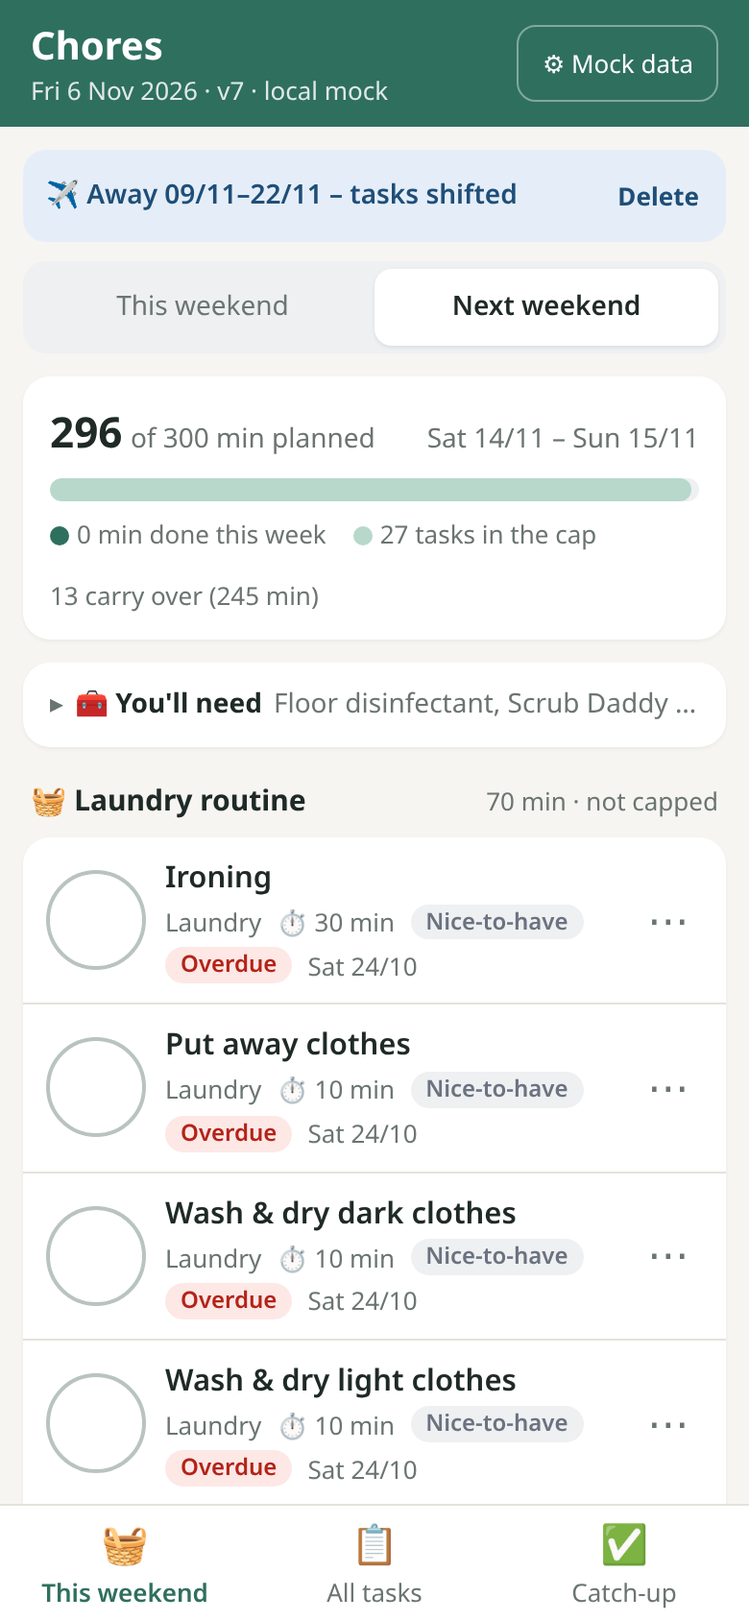
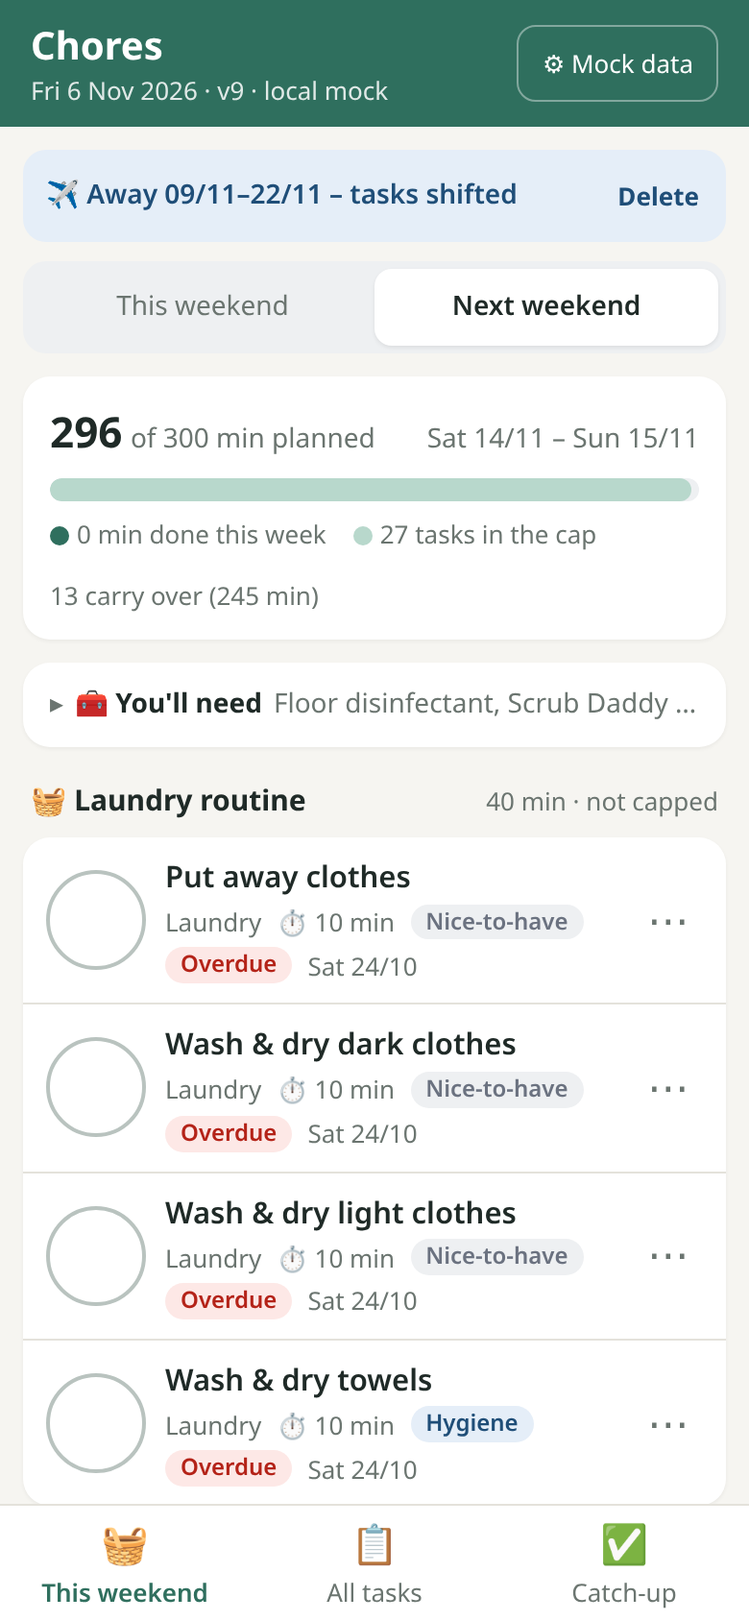
v9: earlier-date tick replaces later dates, no duplicate ticks, effective Last done in edit form, error toasts, no stale reloads

diff --git a/src/app.js b/src/app.js
@@ -1,6 +1,6 @@
 import { computeAll, computeTask, thisWeekend, weekEndFor, fmtDate, addDays, toDay, FREQUENCIES, SEASONS, PRIORITIES, WEEKDAYS,
-  nextWeekendSat, saturdayOnOrAfter, uniqueSupplies, currentAway } from './schedule.js?v=8';
-import { makeBackend } from './data.js?v=8';
+  nextWeekendSat, saturdayOnOrAfter, uniqueSupplies, currentAway, effectiveLast, fromDay, planDone } from './schedule.js?v=9';
+import { makeBackend } from './data.js?v=9';
 
 const $ = (s, el = document) => el.querySelector(s);
 const esc = (s) => String(s ?? '').replace(/[&<>"']/g, (c) => ({ '&': '&amp;', '<': '&lt;', '>': '&gt;', '"': '&quot;', "'": '&#39;' }[c]));
@@ -12,41 +12,61 @@ const CU_START = '2026-10-23', CU_END = '2026-10-27';
 const be = makeBackend();
 const state = { openRooms: new Set(), group: localStorage.getItem('chores.group') || 'room', filter: localStorage.getItem('chores.filter') || 'all', tab: params.get('tab') || 'weekend', next: params.get('week') === 'next', q: '', db: null, lastUndo: null };
 
-async function refresh() { state.db = await be.load(); render(); }
+// only the most recent load is shown, so a slow older response can't overwrite newer data
+let loadSeq = 0;
+async function refresh() { const n = ++loadSeq; const db = await be.load(); if (n !== loadSeq) return; state.db = db; render(); }
+const fail = (err) => { console.error(err); toast(`Couldn't save – ${err?.message || err}`); refresh().catch(() => {}); };
+const safe = (fn) => async (...a) => { try { return await fn(...a); } catch (err) { fail(err); } };
 const cap = () => state.db.settings?.cap_min || window.CHORES_CONFIG?.cap || 300;
 const away = () => state.db.away || [];
 const dm = (iso) => (iso ? `${iso.slice(8, 10)}/${iso.slice(5, 7)}` : '–');
 
 // ---------- actions
+const busy = new Set();   // tasks with a save in flight (repeated taps)
 async function markDone(taskId, doneOn, label) {
-  const prevSnooze = state.db.tasks.find((t) => t.id === taskId)?.snooze_until || null;
-  const c = await be.addCompletion(taskId, doneOn, 'app');
-  if (prevSnooze) await be.updateTask(taskId, { snooze_until: null }).catch(() => {});   // done supersedes 'Not this weekend'
-  await refresh();
-  toast(`${label} – done ${fmtDate(doneOn)}`, async () => {
-    await be.removeCompletion(c.id);
-    if (prevSnooze) await be.updateTask(taskId, { snooze_until: prevSnooze }).catch(() => {});
+  const t = state.db.tasks.find((x) => x.id === taskId); if (!t || busy.has(taskId)) return;
+  const p = planDone(t, state.db.completions, doneOn);
+  if (p.duplicate) { render(); return toast(`${label} – already done ${fmtDate(doneOn)}`); }
+  // an earlier date than the last done replaces it (effective last = latest date, so otherwise nothing would change)
+  const prev = { snooze_until: t.snooze_until || null, last_done: t.last_done || null }, patch = {};
+  if (prev.snooze_until) patch.snooze_until = null;   // done supersedes 'Not this weekend'
+  if (p.last_done !== undefined) patch.last_done = p.last_done;
+  let c;
+  busy.add(taskId);
+  try {
+    if (!p.exists) c = await be.addCompletion(taskId, doneOn, 'app');
+    for (const x of p.later) await be.removeCompletion(x.id);
+    if (Object.keys(patch).length) await be.updateTask(taskId, patch);
+  } catch (err) { busy.delete(taskId); return fail(err); }
+  await refresh().catch(console.error).finally(() => busy.delete(taskId));
+  toast(`${label} – done ${fmtDate(doneOn)}${p.replaces ? ` (was ${fmtDate(p.replaces)})` : ''}`, async () => {
+    if (c) await be.removeCompletion(c.id);
+    for (const x of p.later) await be.addCompletion(taskId, x.done_on, x.source, x.note);
+    if (Object.keys(patch).length) await be.updateTask(taskId, Object.fromEntries(Object.keys(patch).map((k) => [k, prev[k]])));
     await refresh();
   });
 }
 async function setSnooze(t, date) {
   const prev = t.snooze_until || null;
-  try { await be.updateTask(t.id, { snooze_until: date }); } catch (err) { return toast(err.message); }
-  await refresh();
+  try { await be.updateTask(t.id, { snooze_until: date }); } catch (err) { return fail(err); }
+  await refresh().catch(console.error);
   toast(date ? `${t.name} – snoozed to ${fmtDate(date)}` : 'Snooze removed', async () => { await be.updateTask(t.id, { snooze_until: prev }); await refresh(); });
 }
-async function undoCompletion(id) { await be.removeCompletion(id); await refresh(); toast('Undone'); }
+const undoCompletion = safe(async (id) => { await be.removeCompletion(id); await refresh(); toast('Undone'); });
 
 let toastTimer;
 function toast(msg, undo) {
   const t = $('#toast'); clearTimeout(toastTimer);
   t.innerHTML = `<span>${esc(msg)}</span>${undo ? '<button id="undo">Undo</button>' : ''}`; t.hidden = false;
-  if (undo) $('#undo').onclick = async () => { t.hidden = true; await undo(); };
+  if (undo) $('#undo').onclick = async () => { t.hidden = true; await safe(undo)(); };
   toastTimer = setTimeout(() => (t.hidden = true), 6000);
 }
 function pickDate(task) {
   const d = $('#sheet'); $('#sheet-task').textContent = `${task.room}: ${task.name}`;
   const inp = $('#sheet-date'); inp.value = localToday(); inp.max = localToday();
+  const last = fromDay(effectiveLast(task, state.db.completions)), note = $('#sheet-note');
+  inp.oninput = inp.onchange = () => { note.textContent = !last ? '' : inp.value && inp.value < last ? `Earlier than the last done (${fmtDate(last)}) – this replaces it.` : `Last done ${fmtDate(last)}`; };
+  inp.oninput();
   d.returnValue = ''; d.showModal();
   d.onclose = () => { if (d.returnValue === 'ok' && inp.value) markDone(task.id, inp.value, task.name); };
 }
@@ -158,8 +178,13 @@ function renderCatchup() {
   return h;
 }
 
-async function toggleCatchup(id) {
-  const db = state.db, i = db.catchup.find((x) => x.id === id), today = localToday();
+const toggleCatchup = safe(async (id) => {
+  if (busy.has(id)) return;
+  busy.add(id);
+  try { await toggleCatchupNow(id); } finally { busy.delete(id); }
+});
+async function toggleCatchupNow(id) {
+  const db = state.db, i = db.catchup.find((x) => x.id === id), today = localToday(); if (!i) return;
   const walls = db.catchup.filter((x) => x.task_id === i.task_id);
   if (i.done_on) {
     await be.setCatchupDone(id, null);
@@ -168,21 +193,23 @@ async function toggleCatchup(id) {
   } else {
     await be.setCatchupDone(id, today);
     const rest = walls.filter((x) => x.id !== id && !x.done_on);
-    if (!rest.length) await be.addCompletion(i.task_id, today, 'catchup');
+    if (!rest.length && !db.completions.some((c) => c.task_id === i.task_id && c.done_on === today)) await be.addCompletion(i.task_id, today, 'catchup');
   }
   await refresh();
 }
 
 function render() {
   const today = localToday();
-  $('#today').textContent = fmtDate(today, { long: true }) + ' · v8' + (be.kind === 'mock' ? ' · local mock' : '');
+  $('#today').textContent = fmtDate(today, { long: true }) + ' · v9' + (be.kind === 'mock' ? ' · local mock' : '');
   $('#account').textContent = '⚙ ' + (be.kind === 'mock' ? 'Mock data' : (be.user?.email || ''));
   document.querySelectorAll('.tabs button').forEach((b) => b.setAttribute('aria-selected', b.dataset.tab === state.tab));
   $('#tab-catchup').hidden = !state.db.catchup.length || today > addDays(CU_END, 14);
+  const qPos = document.activeElement?.id === 'q' ? document.activeElement.selectionStart : null;
   $('#view').innerHTML = state.tab === 'all' ? renderAll() : state.tab === 'catchup' ? renderCatchup() : renderWeekend();
   document.querySelectorAll('details.room').forEach((d) => d.addEventListener('toggle', () => { d.open ? state.openRooms.add(d.dataset.room) : state.openRooms.delete(d.dataset.room); }));
   const nd = $('#needs'); if (nd) nd.addEventListener('toggle', () => (state.needsOpen = nd.open));
-  const q = $('#q'); if (q) { q.oninput = (e) => { state.q = e.target.value; const pos = e.target.selectionStart; render(); const n = $('#q'); n.focus(); n.setSelectionRange(pos, pos); }; }
+  const q = $('#q'); if (q && qPos != null) { q.focus(); q.setSelectionRange(qPos, qPos); }
+  if (q) { q.oninput = (e) => { state.q = e.target.value; const pos = e.target.selectionStart; render(); const n = $('#q'); n.focus(); n.setSelectionRange(pos, pos); }; }
 }
 
 function renderLogin(msg = '') {
@@ -207,12 +234,12 @@ async function deleteAway(id) {
 
 function openSettings() {
   if (!state.db) return;
-  const d = $('#settings'), today = localToday(), list = currentAway(away(), today);
+  const d = $('#settings'), today = localToday(), list = currentAway(away(), addDays(today, -60));   // recently ended trips still shift tasks
   d.innerHTML = `<form method="dialog"><div class="sheet-head"><h2>Settings</h2><button value="close" class="x" aria-label="Close">✕</button></div>
     <h3>✈ Away</h3>
     <p class="muted small">Tasks due while you're away move later by the same number of days, so you come back to the backlog you left – not a pile. Daily habits aren't affected.</p>
     ${list.length ? `<div class="list">${list.map((a) => `<div class="item slim"><div class="body"><div class="name">${fmtDate(a.start_date)} – ${fmtDate(a.end_date)}</div>
-      <div class="meta">${toDay(a.end_date) - toDay(a.start_date) + 1} days${a.start_date <= today ? ' · on now' : ''}</div></div><button type="button" class="ghost" data-away-del="${esc(a.id)}">Delete</button></div>`).join('')}</div>` : ''}
+      <div class="meta">${toDay(a.end_date) - toDay(a.start_date) + 1} days${a.end_date < today ? ' · ended' : a.start_date <= today ? ' · on now' : ''}</div></div><button type="button" class="ghost" data-away-del="${esc(a.id)}">Delete</button></div>`).join('')}</div>` : ''}
     <div class="two"><label class="field">From <input type="date" id="away-from" value="${today}" min="${addDays(today, -60)}"></label>
       <label class="field">To <input type="date" id="away-to" min="${today}"></label></div>
     <button type="button" class="primary wide" id="away-add">Add away dates</button>
@@ -278,6 +305,7 @@ function openEdit(t) {
   const isNew = !t, d = $('#edit-sheet'), db = state.db;
   t = t || { room: '', name: '', frequency: 'Monthly', priority: 'Nice-to-have', effort_min: 15, active: true };
   const rooms = [...new Set(db.tasks.map((x) => x.room))].sort();
+  const shownLast = isNew ? null : fromDay(effectiveLast(t, db.completions));   // what the app uses (typed or latest tick)
   const opt = (vals, cur, blank) => (blank != null ? `<option value="">${blank}</option>` : '') + vals.map((v) => `<option ${v === cur ? 'selected' : ''}>${esc(v)}</option>`).join('');
   d.innerHTML = `<form id="edit-form" novalidate><div class="sheet-head"><h2>${isNew ? 'Add task' : 'Edit task'}</h2><button type="button" class="x" id="ed-x" aria-label="Close">✕</button></div>
     <label class="field">Task <input name="name" required value="${esc(t.name)}" placeholder="e.g. Clean grout"></label>
@@ -285,7 +313,7 @@ function openEdit(t) {
     <div class="two"><label class="field">How often <select name="frequency">${opt(Object.keys(FREQUENCIES), t.frequency)}</select></label>
       <label class="field">Effort (min) <input name="effort_min" type="number" inputmode="numeric" min="0" max="1440" step="5" value="${t.effort_min ?? ''}"></label></div>
     <div class="two"><label class="field">Priority <select name="priority">${opt(PRIORITIES, t.priority)}</select></label>
-      <label class="field">Last done <input name="last_done" type="date" value="${t.last_done || ''}" max="${localToday()}"></label></div>
+      <label class="field">Last done <input name="last_done" type="date" value="${(isNew ? t.last_done : shownLast) || ''}" max="${localToday()}"></label></div>
     <label class="field">How-to notes <textarea name="notes" rows="3" placeholder="Optional">${esc(t.notes || '')}</textarea></label>
     <label class="field">Supplies <input name="supplies" value="${esc(t.supplies || '')}" placeholder="Optional, comma-separated (e.g. descaler, cloths)"></label>
     <details class="adv"><summary>Advanced</summary>
@@ -307,24 +335,28 @@ function openEdit(t) {
     if (!nn(v.name) || !nn(v.room)) return fail('Task and room are both needed.');
     const eff = nn(v.effort_min) == null ? null : Math.round(Number(v.effort_min));
     if (eff != null && !(eff >= 0 && eff <= 1440)) return fail('Effort must be 0–1440 minutes.');
+    const newLast = nn(v.last_done);
+    if (newLast && newLast > localToday()) return fail('Last done can’t be in the future.');
     const [days, months] = FREQUENCIES[v.frequency];
     const row = { name: nn(v.name), room: nn(v.room), frequency: v.frequency, interval_days: days, interval_months: months, effort_min: eff,
       priority: v.priority, last_done: nn(v.last_done), notes: nn(v.notes), supplies: nn(v.supplies), season: nn(v.season),
       due_weekday: nn(v.due_weekday), planned_date: nn(v.planned_date), stagger_date: nn(v.stagger_date) };
     if (!isNew) row.active = !!v.active;
+    // editing Last done replaces it: drop ticks after the new date (all of them when cleared) so it actually takes effect
+    const lastChanged = !isNew && newLast !== shownLast;
+    if (!isNew && !lastChanged) delete row.last_done;   // untouched: keep the typed value as it is
+    const drop = lastChanged ? state.db.completions.filter((c) => c.task_id === t.id && (newLast == null || c.done_on > newLast)) : [];
+    if (lastChanged && newLast == null && drop.length && !confirm(`Clear Last done? This also removes ${drop.length} tick${drop.length > 1 ? 's' : ''} from the history.`)) return;
     try {
       if (isNew) {
         row.sort_key = Math.max(0, ...db.tasks.map((x) => x.sort_key || 0)) + 1; row.source = 'app';
         await be.addTask(row);
       } else {
         await be.updateTask(t.id, row);
-        // editing Last done replaces it: drop later ticks so the new date actually takes effect
-        if (row.last_done && row.last_done !== (t.last_done || null)) {
-          for (const c of db.completions.filter((c) => c.task_id === t.id && c.done_on > row.last_done)) await be.removeCompletion(c.id);
-        }
+        for (const c of drop) await be.removeCompletion(c.id);
       }
     } catch (ex) { return fail(ex.message); }
-    d.close(); await refresh();
+    d.close(); await refresh().catch(() => {});
     if (isNew) toast(`Added “${row.name}”`);
     else if (t.active !== false && row.active === false) toast(`Retired “${row.name}” – hidden from lists`, async () => { await be.updateTask(t.id, { active: true }); await refresh(); });
     else toast('Saved');
@@ -371,7 +403,9 @@ $('#account').onclick = () => openSettings();
   try {
     const ok = await be.init();
     if (!ok) return renderLogin();
-    be.onChange(() => refresh());
+    let rt; be.onChange(() => { clearTimeout(rt); rt = setTimeout(() => refresh().catch(console.error), 250); });
+    // phones drop the realtime socket in the background and the date may have changed: reload when shown again
+    document.addEventListener('visibilitychange', () => { if (!document.hidden && state.db) refresh().catch(console.error); });
     await refresh();
   } catch (err) { $('#view').innerHTML = `<div class="card">Couldn't load: ${esc(err.message)}</div>`; console.error(err); }
   if ('serviceWorker' in navigator && location.protocol !== 'file:') navigator.serviceWorker.register('sw.js', { updateViaCache: 'none' }).then((r) => r.update()).catch(() => {});

diff --git a/tests/fixes.test.js b/tests/fixes.test.js
@@ -1,0 +1,58 @@
+// v9 fixes: ticking with an earlier date takes effect, repeated ticks don't duplicate, CLI date checks.
+import { test } from 'node:test';
+import assert from 'node:assert/strict';
+import fs from 'node:fs';
+import os from 'node:os';
+import { execFileSync } from 'node:child_process';
+import { planDone, computeTask } from '../src/schedule.js';
+
+const root = new URL('..', import.meta.url).pathname;
+const T = { id: 'iron', room: 'Laundry', name: 'Ironing', frequency: 'Weekly', interval_days: 7, interval_months: 0, last_done: '2026-10-17' };
+const apply = (t, comps, d) => {   // what markDone does with the plan
+  const p = planDone(t, comps, d); if (p.duplicate) return { t, comps, p };
+  const ids = new Set(p.later.map((c) => c.id));
+  return { p, t: p.last_done !== undefined ? { ...t, last_done: p.last_done } : t, comps: [...comps.filter((c) => !ids.has(c.id)), { id: 'new', task_id: t.id, done_on: d }] };
+};
+
+test('tick with an earlier date than the typed Last done replaces it (live case: Ironing 10/10 vs 17/10)', () => {
+  assert.equal(computeTask(T, [{ task_id: 'iron', done_on: '2026-10-10' }], '2026-10-18').next_due, '2026-10-24');   // the old bug: no effect
+  const r = apply(T, [], '2026-10-10');
+  assert.equal(r.p.last_done, '2026-10-10'); assert.equal(r.p.replaces, '2026-10-17');
+  assert.equal(computeTask(r.t, r.comps, '2026-10-18').next_due, '2026-10-17');
+  assert.equal(computeTask(r.t, r.comps, '2026-10-18').status, 'Overdue');
+});
+
+test('tick with an earlier date than a later tick removes the later tick', () => {
+  const comps = [{ id: 'a', task_id: 'iron', done_on: '2026-10-18' }, { id: 'b', task_id: 'iron', done_on: '2026-10-03' }, { id: 'x', task_id: 'other', done_on: '2026-10-18' }];
+  const p = planDone(T, comps, '2026-10-12');
+  assert.deepEqual(p.later.map((c) => c.id), ['a']); assert.equal(p.replaces, '2026-10-18'); assert.equal(p.last_done, '2026-10-12');
+  const r = apply(T, comps, '2026-10-12');
+  assert.equal(computeTask(r.t, r.comps, '2026-10-18').last_effective, '2026-10-12');
+  assert.ok(r.comps.some((c) => c.id === 'x'), 'other tasks untouched');
+});
+
+test('normal tick (today, latest) changes nothing else; same day twice is a duplicate', () => {
+  const p = planDone(T, [], '2026-10-18');
+  assert.deepEqual(p, { duplicate: false, exists: false, later: [], last_done: undefined, replaces: null });
+  assert.equal(planDone(T, [{ id: 'a', task_id: 'iron', done_on: '2026-10-18' }], '2026-10-18').duplicate, true);
+  assert.equal(planDone({ ...T, last_done: null }, [], '2026-10-01').replaces, null);
+});
+
+test('re-ticking a date that already has a tick but was overridden still takes effect (live: Ironing tick 10/10, Last done 17/10)', () => {
+  const comps = [{ id: 'old', task_id: 'iron', done_on: '2026-10-10' }];
+  const p = planDone(T, comps, '2026-10-10');
+  assert.equal(p.duplicate, false); assert.equal(p.exists, true); assert.equal(p.last_done, '2026-10-10'); assert.equal(p.replaces, '2026-10-17');
+  assert.equal(computeTask({ ...T, last_done: p.last_done }, comps, '2026-10-18').next_due, '2026-10-17');
+});
+
+test('CLI: done twice on the same day adds one completion; future/bad --date refused; earlier date warns', () => {
+  const file = os.tmpdir() + `/chores_fix_${process.pid}.json`; fs.rmSync(file, { force: true });
+  const cli = (args) => { try { return execFileSync('node', [root + 'scripts/assistant_cli/cli.mjs', ...args, '--mock', file, '--today', '2026-11-06'], { encoding: 'utf8', stdio: 'pipe' }); } catch (e) { return 'EXIT ' + e.status + ' ' + e.stderr; } };
+  cli(['done', 'hood']); assert.match(cli(['done', 'hood']), /already marked done Fri 06\/11/);
+  const n = () => JSON.parse(fs.readFileSync(file)).completions.filter((c) => c.done_on === '2026-11-06').length;
+  assert.equal(n(), 1);
+  assert.match(cli(['done', 'hood', '--date', '2026-11-07']), /EXIT 1 .*future/);
+  assert.match(cli(['done', 'hood', '--date', 'friday']), /EXIT 1 .*YYYY-MM-DD/);
+  assert.match(cli(['done', 'hood', '--date', '2026-11-01', '--dry-run']), /was last done Fri 06\/11/);
+  fs.rmSync(file);
+});

diff --git a/src/schedule.js b/src/schedule.js
@@ -50,6 +50,19 @@ export function effectiveLast(task, completions = []) {
   return e || null;
 }
 
+/** Ticking a task done on doneOn so that it actually takes effect (effective last = latest of all dates).
+ *  exists: there is already a tick on doneOn (don't add another). duplicate: exists and nothing later - nothing to do.
+ *  later: completions after doneOn, to remove. last_done: new typed Last done when the typed one is later than doneOn
+ *  (else undefined = leave it). replaces: the effective last done that doneOn replaces (null when doneOn is the latest). */
+export function planDone(task, completions, doneOn) {
+  const mine = completions.filter((c) => c.task_id === task.id);
+  const prev = effectiveLast(task, completions);
+  const replaces = prev != null && prev > toDay(doneOn) ? fromDay(prev) : null;
+  const exists = mine.some((c) => c.done_on === doneOn);
+  return { duplicate: exists && !replaces, exists, later: mine.filter((c) => c.done_on > doneOn),
+           last_done: task.last_done && task.last_done > doneOn ? doneOn : undefined, replaces };
+}
+
 /** Nearest target weekday (Saturday unless due_weekday overrides it), but never back onto/before Last done E. */
 function snap(task, S, E) {
   const tgt = task.due_weekday && WEEKDAYS.includes(task.due_weekday) ? WEEKDAYS.indexOf(task.due_weekday) + 1 : 7;

diff --git a/index.html b/index.html
@@ -11,8 +11,8 @@
   <link rel="manifest" href="manifest.webmanifest">
   <link rel="icon" href="icons/icon-192.png">
   <link rel="apple-touch-icon" href="icons/icon-192.png">
-  <link rel="stylesheet" href="styles.css?v=8">
-  <script src="config.js?v=8"></script>
+  <link rel="stylesheet" href="styles.css?v=9">
+  <script src="config.js?v=9"></script>
 </head>
 <body>
   <header class="top">
@@ -34,6 +34,7 @@
       <h2 id="sheet-title">Done on…</h2>
       <p class="muted" id="sheet-task"></p>
       <label class="field">Date <input type="date" id="sheet-date" required></label>
+      <p class="muted small" id="sheet-note"></p>
       <div class="row-btns">
         <button value="cancel" class="ghost">Cancel</button>
         <button value="ok" class="primary" id="sheet-ok">Mark done</button>
@@ -43,6 +44,6 @@
   <dialog id="task-sheet" class="sheet tall" aria-label="Task details"></dialog>
   <dialog id="edit-sheet" class="sheet tall" aria-label="Edit task"></dialog>
   <dialog id="settings" class="sheet tall" aria-label="Settings"></dialog>
-  <script type="module" src="src/app.js?v=8"></script>
+  <script type="module" src="src/app.js?v=9"></script>
 </body>
 </html>

diff --git a/styles.css b/styles.css
@@ -44,7 +44,7 @@ h2.sec small { font-weight: 400; color: var(--muted); font-size: 13px; }
 .item .name { font-weight: 600; font-size: 15.5px; }
 .item .meta { font-size: 13px; color: var(--muted); display: flex; flex-wrap: wrap; gap: 4px 8px; margin-top: 3px; align-items: center; }
 .more { flex: none; width: 44px; height: 44px; border: 0; background: none; font-size: 22px; color: var(--muted); border-radius: 10px; }
-.chip { display: inline-block; font-size: 12px; padding: 1px 8px; border-radius: 999px; font-weight: 600; white-space: nowrap; }
+.chip { display: inline-block; font-size: 12px; padding: 1px 8px; border-radius: 999px; font-weight: 600; white-space: nowrap; max-width: 100%; overflow: hidden; text-overflow: ellipsis; vertical-align: middle; }
 .p-Safety { background: var(--red-soft); color: var(--red); } .p-Hygiene { background: var(--blue-soft); color: var(--blue); }
 .p-Nice-to-have { background: var(--grey-soft); color: var(--grey); }
 .s-Overdue { background: var(--red-soft); color: var(--red); }

diff --git a/sw.js b/sw.js
@@ -1,5 +1,5 @@
 // Offline app shell. Bump VERSION when you deploy changes.
-const VERSION = 'chores-v8';
+const VERSION = 'chores-v9';
 const SHELL = ['./', 'index.html', 'styles.css', 'config.js', 'manifest.webmanifest', 'src/app.js', 'src/data.js', 'src/schedule.js',
   'data/seed.json', 'icons/icon-192.png', 'icons/icon-512.png'];
 self.addEventListener('install', (e) => e.waitUntil(caches.open(VERSION).then((c) => c.addAll(SHELL.map((u) => new Request(u, { cache: 'reload' })))).then(() => self.skipWaiting())));

diff --git a/tests/smoke_features.py b/tests/smoke_features.py
@@ -16,7 +16,7 @@ with sync_playwright() as p:
     pg.on("console", lambda m: m.type == "error" and errors.append(m.text)); pg.on("pageerror", lambda e: errors.append(str(e)))
     pg.on("dialog", lambda d: d.accept())
     pg.goto(BASE + "?today=2026-11-06"); pg.wait_for_selector(".cap")
-    ok("header shows v8", "v8" in pg.inner_text("#today"))
+    ok("header shows v9", "v9" in pg.inner_text("#today"))
     # supplies line
     ok("You'll need line present", pg.locator("#needs").count() == 1)
     ok("You'll need preview when collapsed", "Degreaser" in pg.inner_text("#needs summary"))
@@ -85,6 +85,38 @@ with sync_playwright() as p:
     pg.fill("#q", ""); pg.wait_for_timeout(200)
     ok("Retired section lists it", pg.locator("details.retired", has_text="Clean grout").count() == 1)
     ok("still 123 active rows", pg.locator("details.room:not(.retired) .item").count() == 123)
+    # v9: an earlier date than the last done replaces it; repeated taps don't duplicate; edit shows the effective Last done
+    mock = lambda: pg.evaluate("JSON.parse(localStorage.getItem('chores.mock.v1'))")
+    iron_id = [t for t in mock()["tasks"] if t["name"] == "Ironing"][0]["id"]
+    iron_c = lambda: [c["done_on"] for c in mock()["completions"] if c["task_id"] == iron_id]
+    pg.fill("#q", "ironing"); pg.wait_for_timeout(200)
+    row = pg.locator("details.room .item[data-id]", has_text="Ironing").first
+    row.locator(".more").click(); pg.wait_for_selector("#sheet[open]")
+    ok("date sheet shows last done", "Last done Sat 17/10" in pg.inner_text("#sheet"))
+    pg.fill("#sheet-date", "2026-10-10")
+    ok("date sheet warns an earlier date replaces it", "replaces it" in pg.inner_text("#sheet-note"))
+    pg.evaluate("document.querySelector('#toast').hidden = true")
+    pg.click("#sheet-ok"); pg.wait_for_selector("#toast:not([hidden])")
+    ok("toast says what it replaced", "(was Sat 17/10)" in pg.inner_text("#toast"))
+    ok("earlier tick took effect (overdue now)", "Overdue" in row.inner_text())
+    row.locator(".name").tap(); pg.wait_for_selector("#task-sheet[open]")
+    ld = pg.inner_text("#task-sheet dl.facts dd:nth-of-type(2)"); ok(f"sheet Last done shows 10 Oct, not the replaced 17 Oct ({ld!r})", "Sat 10 Oct 2026" in ld and "17 Oct" not in ld)
+    pg.keyboard.press("Escape"); pg.wait_for_timeout(150)
+    pg.click("#undo"); pg.wait_for_timeout(300)
+    ok("undo restores the old Last done", [t for t in mock()["tasks"] if t["id"] == iron_id][0]["last_done"] == "2026-10-17" and iron_c() == [])
+    pg.evaluate("(() => { const b = document.querySelector('details.room .item[data-id] .tick'); b.click(); b.click(); b.click(); })()"); pg.wait_for_timeout(500)
+    ok(f"rapid repeated taps add one completion ({iron_c()})", iron_c() == ["2026-11-06"])
+    row.locator(".tick").tap(); pg.wait_for_timeout(300)
+    ok("tapping a ticked task again says already done", "already done" in pg.inner_text("#toast") and iron_c() == ["2026-11-06"])
+    row.locator(".name").tap(); pg.click("#ts-edit"); pg.wait_for_selector("#edit-sheet[open]")
+    ok("edit form shows the effective Last done (latest tick)", pg.input_value("#edit-form [name=last_done]") == "2026-11-06")
+    pg.fill("#edit-form [name=effort_min]", "25"); pg.click("#ed-save"); pg.wait_for_timeout(300)
+    ok("saving other fields leaves Last done/ticks alone", [t for t in mock()["tasks"] if t["id"] == iron_id][0]["last_done"] == "2026-10-17" and iron_c() == ["2026-11-06"])
+    row.locator(".name").tap(); pg.click("#ts-edit"); pg.wait_for_selector("#edit-sheet[open]")
+    pg.fill("#edit-form [name=last_done]", ""); pg.click("#ed-save"); pg.wait_for_timeout(300)
+    it = [t for t in mock()["tasks"] if t["id"] == iron_id][0]
+    ok("clearing Last done really clears it", it["last_done"] is None and iron_c() == [] and "No date" in row.inner_text())
+    pg.fill("#q", ""); pg.wait_for_timeout(200)
     # away mode
     pg.click("button[data-tab=weekend]"); pg.wait_for_selector(".cap"); pg.click("text=Next weekend"); pg.wait_for_timeout(200)
     nn = pg.locator(".item[data-id]").count()
